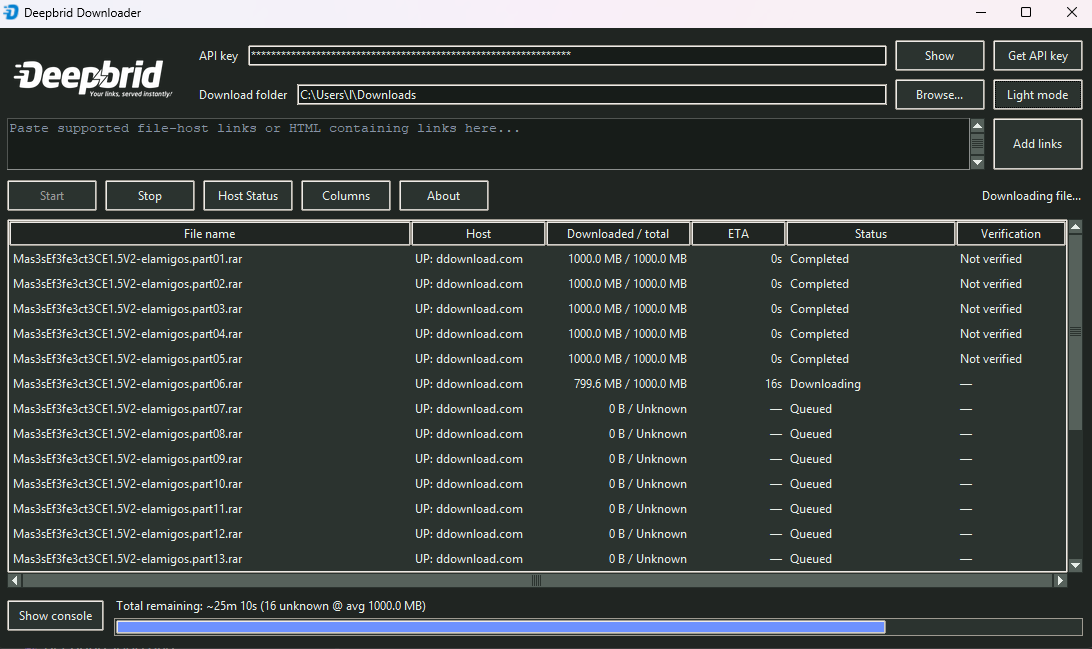
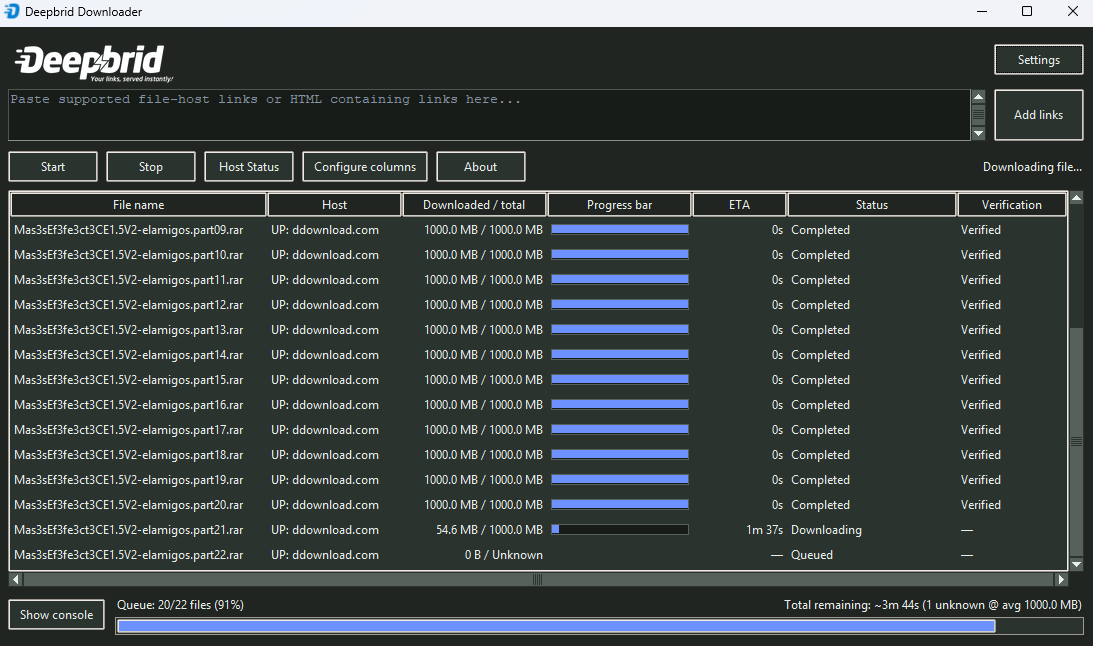
Improve settings and API key workflows
Add searchable settings, API-key validation feedback and logging, dashboard theme controls, and refreshed screenshots/documentation.

Changed region(s): [[0.0, 0.0619, 0.9963, 1.0], [0.0, 0.0, 0.1245, 0.031]]

diff --git a/src/deepbrid_client.py b/src/deepbrid_client.py
@@ -29,6 +29,16 @@ class DeepbridClient:
         self.log = log or (lambda _message: None)
 
     def validate_api_key(self) -> None:
+        curl_command = " ".join(
+            (
+                "curl -X GET",
+                shlex.quote(f"{API_BASE}/user"),
+                "-H", shlex.quote("Authorization: Bearer <redacted>"),
+                "-H", shlex.quote("Accept: application/json"),
+                "-H", shlex.quote(f"User-Agent: {APP_USER_AGENT}"),
+            )
+        )
+        self.log(f"Checking API key. Request: {curl_command}")
         request = urllib.request.Request(
             f"{API_BASE}/user",
             headers={
@@ -39,9 +49,12 @@ class DeepbridClient:
         )
         try:
             with urllib.request.urlopen(request, timeout=20) as response:
+                status_code = response.status
                 result = json.loads(response.read().decode("utf-8", errors="replace"))
         except urllib.error.HTTPError as error:
+            status_code = error.code
             error.close()
+            self.log(f"API-key validation response: HTTP {status_code}.")
             if error.code == 401:
                 raise DeepbridError(
                     "Deepbrid rejected the API key (HTTP 401). Check the key and try again.",
@@ -54,7 +67,9 @@ class DeepbridClient:
                 status_code=error.code,
             ) from error
         except (urllib.error.URLError, TimeoutError, json.JSONDecodeError) as error:
+            self.log(f"API-key validation request failed: {error}")
             raise DeepbridError(f"Could not validate the API key: {error}") from error
+        self.log(f"API-key validation response: HTTP {status_code}.")
         if not isinstance(result, dict):
             raise DeepbridError("Deepbrid returned an unexpected API-key validation response.")
         if result.get("error") in (401, "401"):
@@ -67,6 +82,7 @@ class DeepbridClient:
             raise DeepbridError(
                 f"Deepbrid could not validate the API key: {result.get('message', 'unknown API error')}"
             )
+        self.log("API-key validation succeeded.")
 
     def generate_link(self, original_url: str) -> tuple[str, str | None]:
         payload = urllib.parse.urlencode({"link": original_url}).encode("utf-8")

diff --git a/src/app.py b/src/app.py
@@ -499,8 +499,20 @@ class DownloaderApp:
         self.brand_logo_dark = tk.PhotoImage(file=str(WORDMARK_PATH))
         self.brand_logo_label = ttk.Label(main, image=self.brand_logo_light)
         self.brand_logo_label.grid(row=0, column=0, sticky="w", padx=(0, 18))
-        self.settings_button = ttk.Button(main, text="Settings", command=self._show_settings)
-        self.settings_button.grid(row=0, column=1, sticky="e", pady=(0, 8))
+        header_actions = ttk.Frame(main)
+        header_actions.grid(row=0, column=1, sticky="e", pady=(0, 8))
+        self.settings_button = ttk.Button(
+            header_actions,
+            text="Settings",
+            command=self._show_settings,
+        )
+        self.settings_button.pack(side="right")
+        self.theme_button = ttk.Button(
+            header_actions,
+            text="Dark mode" if not self.dark_theme else "Light mode",
+            command=self._toggle_theme,
+        )
+        self.theme_button.pack(side="right", padx=(0, 8))
 
         add_row = ttk.Frame(main)
         add_row.grid(row=1, column=0, columnspan=2, sticky="ew", pady=(0, 10))
@@ -2107,7 +2119,7 @@ class DownloaderApp:
         status: tk.StringVar | None,
     ) -> None:
         try:
-            DeepbridClient(api_key).validate_api_key()
+            DeepbridClient(api_key, log=self._log).validate_api_key()
         except DeepbridError as error:
             message = (
                 "API key is invalid. Check it or get a new key."
@@ -2207,6 +2219,7 @@ class DownloaderApp:
         self.dark_theme = not self.dark_theme
         self._persist_theme()
         self._apply_theme()
+        self.theme_button.configure(text="Light mode" if self.dark_theme else "Dark mode")
 
     def _apply_theme(self) -> None:
         style = ttk.Style(self.root)

diff --git a/tests/test_downloader.py b/tests/test_downloader.py
@@ -1245,6 +1245,19 @@ class DeepbridDiagnosticsTests(unittest.TestCase):
         self.assertEqual(request.full_url, "https://www.deepbrid.com/api/v1/user")
         self.assertEqual(request.get_header("Authorization"), "Bearer valid-test-key")
 
+    def test_api_key_validation_logs_redacted_request_and_result(self) -> None:
+        secret = "sensitive-test-api-key"
+        messages: list[str] = []
+        response = FakeResponse(200, {}, b'{"type":"premium","error":0}')
+        with patch("src.deepbrid_client.urllib.request.urlopen", return_value=response):
+            DeepbridClient(secret, log=messages.append).validate_api_key()
+
+        self.assertTrue(any("curl -X GET" in message for message in messages))
+        self.assertTrue(any("Authorization: Bearer <redacted>" in message for message in messages))
+        self.assertIn("API-key validation response: HTTP 200.", messages)
+        self.assertIn("API-key validation succeeded.", messages)
+        self.assertNotIn(secret, "\n".join(messages))
+
     def test_invalid_api_key_is_reported_as_non_retryable_401(self) -> None:
         error = urllib.error.HTTPError(
             "https://www.deepbrid.com/api/v1/user",

diff --git a/README.md b/README.md
@@ -46,7 +46,7 @@ python launcher.py
 - Keep API keys encrypted in SQLite instead of storing them in plain text
 - Resume interrupted transfers using hidden `.part` files and range-aware downloads
 - Open a searchable, sortable Host Status window with live availability and daily quota details
-- Show the cached host list immediately, then refresh it in the background; open the API-key page when Deepbrid returns HTTP 401
+- Show the cached host list immediately, then refresh it in the background; open API-key Settings when Deepbrid returns HTTP 401
 - Select multiple queue rows with Ctrl-click or a Shift-click range, then apply context-menu actions in display order
 - Press Ctrl+A in the queue to select all links; selected text remains legible in light mode
 - Track queue-wide progress with a compact bar that includes the active file's partial progress
@@ -55,10 +55,10 @@ python launcher.py
 - Check whether a completed download's size matched the expected size reported by its host
 - Retry blocked or failed links safely, with a pause-and-resume workflow
 - Open a searchable Settings window for the API key, download folder, appearance, startup behavior, and queue columns; preferences are saved between runs
+- Check the API key from Settings and switch themes directly from the dashboard; startup downloads are enabled by default
 - Toggle dark mode, show or hide the console, and customize column visibility and order with a reset-to-defaults option
 - Keep table heading hover, the About README, and update-download progress readable in dark mode
-- Open API-key Settings automatically when startup detects a missing or rejected key; access the Deepbrid key page from Settings
-- Validate the configured API key from Settings and open API-key Settings automatically at startup when it is missing or rejected
+- Open API-key Settings automatically at startup when the key is missing or rejected; access the Deepbrid key page from Settings
 - Check for newer releases in About and opt into verified in-app updates with download progress
 - Use the user's OS Downloads folder by default when available, retaining a saved folder choice
 - Route standard output, errors, and uncaught exceptions to the in-app console
@@ -68,6 +68,10 @@ python launcher.py
 ### Main dashboard
 
 ![Deepbrid Downloader dashboard](src/img/DeepbridDownloader.png)
+
+### Settings
+
+![Searchable settings with API-key validation](src/img/Settings.png)
 
 ### Host status and quota overview
 
@@ -114,11 +118,11 @@ On Linux, Tkinter may need to be installed through the operating system package 
 - Rows show status, downloaded/total bytes, remaining bytes, per-file ETA, and optional size-verification results.
 - The bottom progress bar tracks settled enabled links plus the active file's partial progress; its caption shows queue count and total ETA.
 - The total ETA estimates unknown queued file sizes from the average size of completed downloads when a sample is available.
-- Use the Columns dialog to show or hide fields, change their order, or reset the layout to defaults.
+- Use the Configure columns dialog to show or hide fields, change their order, or reset the layout to defaults.
 - Click a row to select it, press Ctrl+A to select all queued links, Ctrl-click to add or toggle rows, or Shift-click to select a range; right-click a selected row to apply context-menu actions to the selection in display order.
 - The Host Status window opens with the last cached host list, then refreshes availability and daily quotas in the background. Search by host or sort by any column.
 - The app keeps active partial files and automatically resumes queued work after startup.
-- If the API key is missing or rejected, follow the Deepbrid link in the prompt or Host Status window to retrieve or replace it.
+- If the API key is missing or rejected, the app opens the filtered API-key Settings automatically. Use the Get API key button there to retrieve a key, then use Check API key to verify it.
 - Use the About window to open the GitHub repository and check whether a newer release is available.
 
 ## Retry and resume behavior
